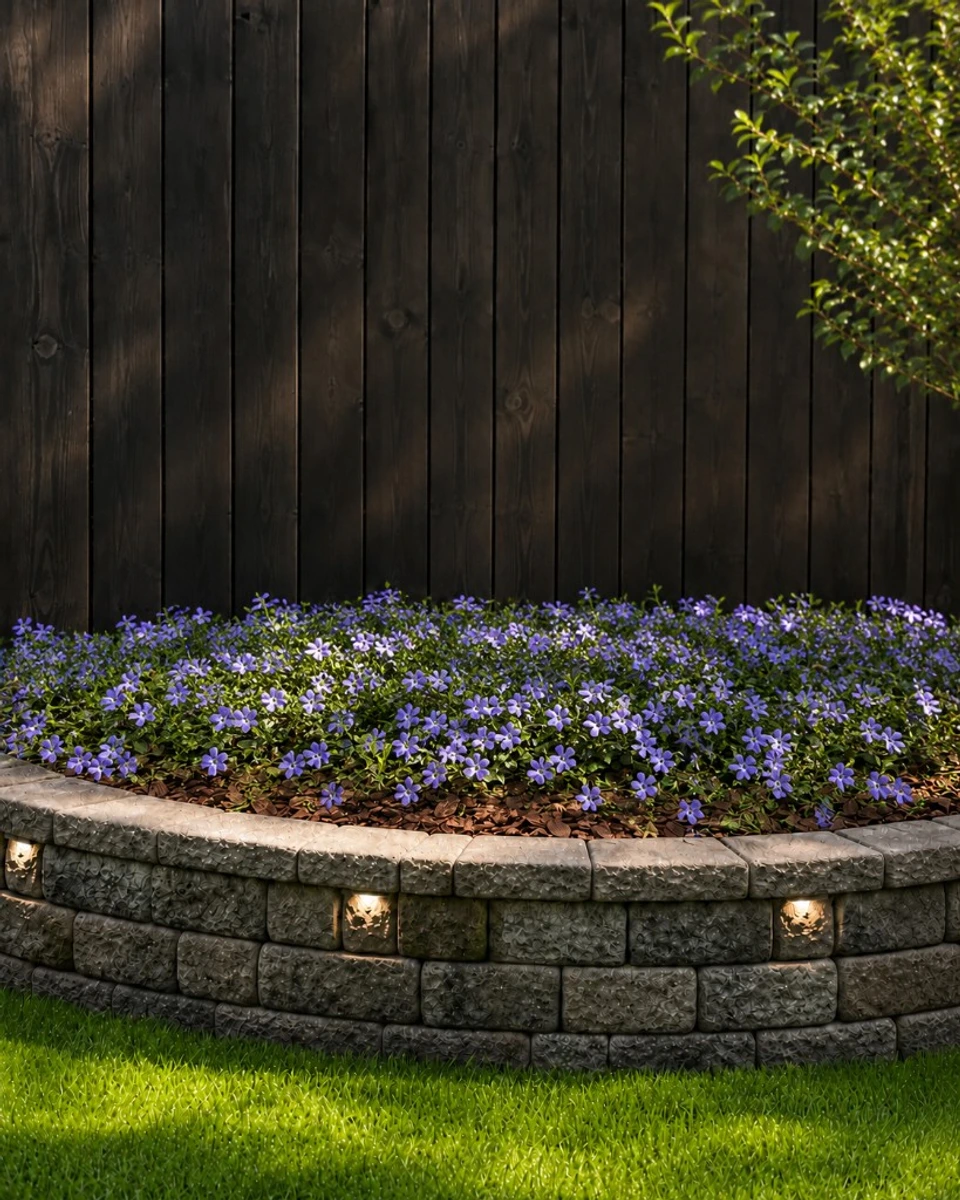
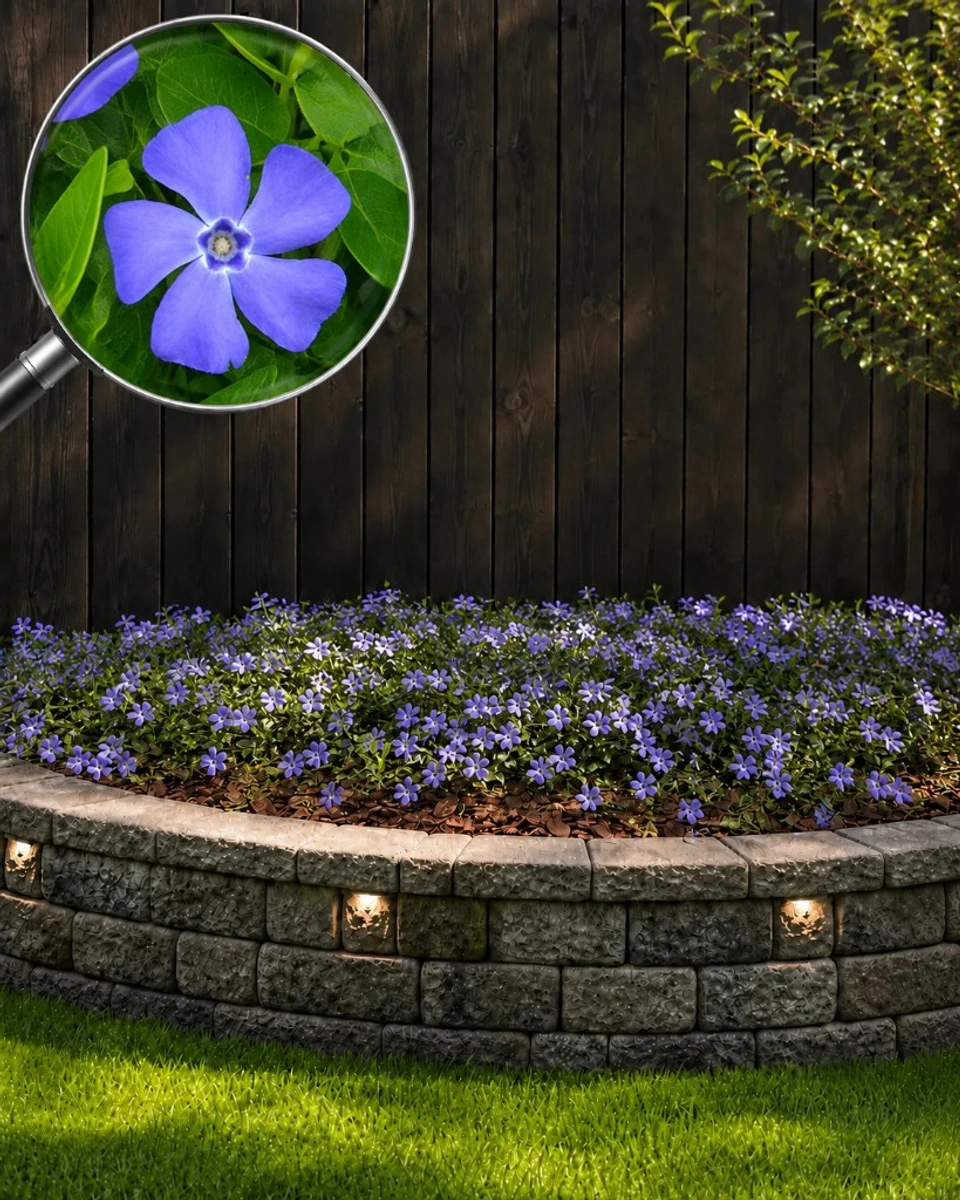
фото: барвинок (id 57) с лупой — полный и демо каталоги

diff --git a/assets/js/garden-catalog.js b/assets/js/garden-catalog.js
@@ -304,7 +304,7 @@
     return `<div class="meter"><span>${title}</span><b><span class="valueText">${esc(value)}</span>${unit ? `<span class="unit">${esc(unit.trim())}</span>` : ""}</b>${visual || ""}</div>`;
   }
 
-  const PHOTO_CACHE_V = "20260717b";
+  const PHOTO_CACHE_V = "20260810a";
 
   function photo(p) {
     const src = p.photo ? `${p.photo}?v=${PHOTO_CACHE_V}` : "";
